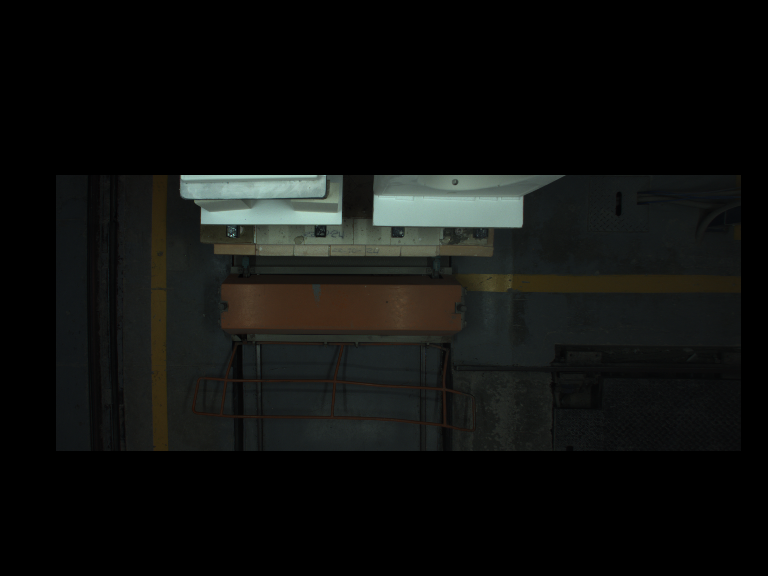
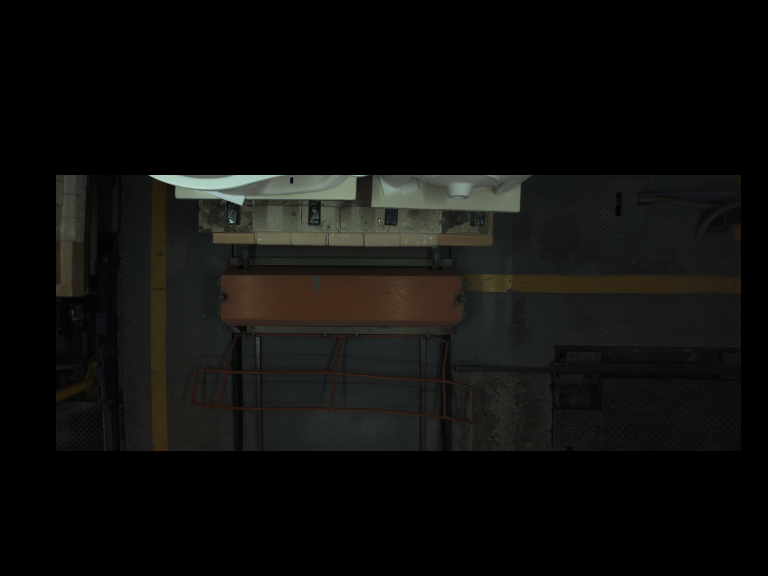
fix save alarma & refactor

Changed region(s): [[0.1875, 0.2812, 0.75, 0.5938], [0.0625, 0.2812, 0.125, 0.5312], [0.5, 0.5625, 0.5312, 0.5938]]

diff --git a/04_Yolo/utils.py b/04_Yolo/utils.py
@@ -9,11 +9,17 @@ import math
 import time
 import os
 
-# Definición de la malla
-malla_izq: int = 106
-malla_der: int = 690#622
+# ROI Deteccion
+roi_x1: int = 56
+roi_x2: int = 740
+roi_y1: int = 175
+roi_y2:int = 450
 count_line: int = 270
+
+# Sistema posible colisión
 mid: int = 370
+lim_izq: int = 355 # -15
+lim_der: int = 385 # +15
 path_alarma: str = '../00_Data/alarmas'
 if not os.path.exists(path_alarma):
     os.makedirs(path_alarma)
@@ -104,20 +110,21 @@ def draw_detections(image, box, label, confidence):
 
 
 def draw_grids(image, debug=False):
-    # malla anti choque 
-    cv.line(image, (malla_izq, 150), (malla_izq, 400), (26, 136, 230), 2) 
-    cv.line(image, (malla_der, 150), (malla_der, 400), (26, 136, 230), 2) 
+    # ROI Deteccion
+    cv.line(image, (roi_x1, roi_y1), (roi_x1, roi_y2), (26, 136, 230), 2) 
+    cv.line(image, (roi_x2, roi_y1), (roi_x2, roi_y2), (26, 136, 230), 2) 
 
     # linea de conteo
-    cv.line(image, (malla_izq, count_line), (malla_der, count_line), (26, 55, 230), 2)
+    cv.line(image, (roi_x1, count_line), (roi_x2, count_line), (26, 55, 230), 2)
 
     if debug:
         # Malla/cruz para nivelar y centrar la camara manualmente
         # get image shape
         h, w = image.shape[:2]
-        cv.line(image, (370, 0), (370, h), (26, 136, 230), 2)
-        cv.line(image, (355, 0), (360, h), (26, 55, 230), 2)
-        cv.line(image, (385, 0), (380, h), (26, 55, 230), 2)
+        # Sistema anti colision
+        cv.line(image, (mid, 0), (mid, h), (26, 136, 230), 2)
+        cv.line(image, (lim_izq, 0), (lim_izq, h), (26, 55, 230), 2)
+        cv.line(image, (lim_der, 0), (lim_der, h), (26, 55, 230), 2)
         # draw crosshair in the center of the image
         # cv.line(image, (w // 2, 0), (w // 2, h), (0, 255, 0), 2)
         # cv.line(image, (0, h // 2), (w, h // 2), (0, 255, 0), 2)
@@ -192,7 +199,7 @@ def preparar_img(img):
     # Mascara
     blank = np.zeros(img_final.shape[:2], dtype='uint8')
     # Area seleccion ROI 
-    cv.rectangle(blank, (malla_izq-50, 175), (malla_der + 50, 450), 255, -1)
+    cv.rectangle(blank, (roi_x1, roi_y1), (roi_x2, roi_y2), 255, -1)
     mascara = cv.bitwise_and(img_final,img_final,mask=blank)
     cv.imwrite('mask.png', mascara)
     
@@ -335,19 +342,21 @@ class Tracker:
                 if track_class_names[i] in piezas_para_malla_dinamica:
                     if center[0] < mid:
                         # Izquierda
-                        dist = x2 - mid
-                        if dist > -15:
+                        if x2 < lim_izq:
                             alarma_choque = True
                     else:
                         # Derecha
-                        dist = x1 - mid
-                        if dist < 15:
+                        if x1 > lim_der:
                             alarma_choque = True
-                if alarma_choque:
-                    mascara = frame
-                    cv.rectangle(mascara, (x1, y1), (x2, y2), (0, 255, 0), 2)
-                    ruta_alarma = os.path.join(path_alarma, f'{time.strftime("%Y-%m-%d_%H-%M-%S")}.png')
-                    cv.imwrite(ruta_alarma, mascara)
+
+                    if alarma_choque:
+                        mascara = frame
+                        cv.rectangle(mascara, (x1, y1), (x2, y2), (0, 255, 0), 2)
+                        cv.line(mascara, (mid, y1), (mid, y2), (26, 136, 230), 2)
+                        cv.line(mascara, (lim_izq, y1), (lim_izq, y2), (26, 55, 230), 2)
+                        cv.line(mascara, (lim_der, y1), (lim_der, y2), (26, 55, 230), 2)
+                        ruta_alarma = os.path.join(path_alarma, f'{time.strftime("%Y-%m-%d_%H-%M-%S")}.png')
+                        cv.imwrite(ruta_alarma, mascara)
 
         return alarma_choque
 

diff --git a/04_Yolo/YOLO_camera_inference.py b/04_Yolo/YOLO_camera_inference.py
@@ -134,7 +134,6 @@ while True:
                 video_iniciado = False
                 cv.destroyAllWindows()
                 #
-                log(f"Alarma de choque: {alarma_choque}")
                 save_sql(tracker.inventario, video_name, alarma_choque)
                 log(tracker.inventario)
 
